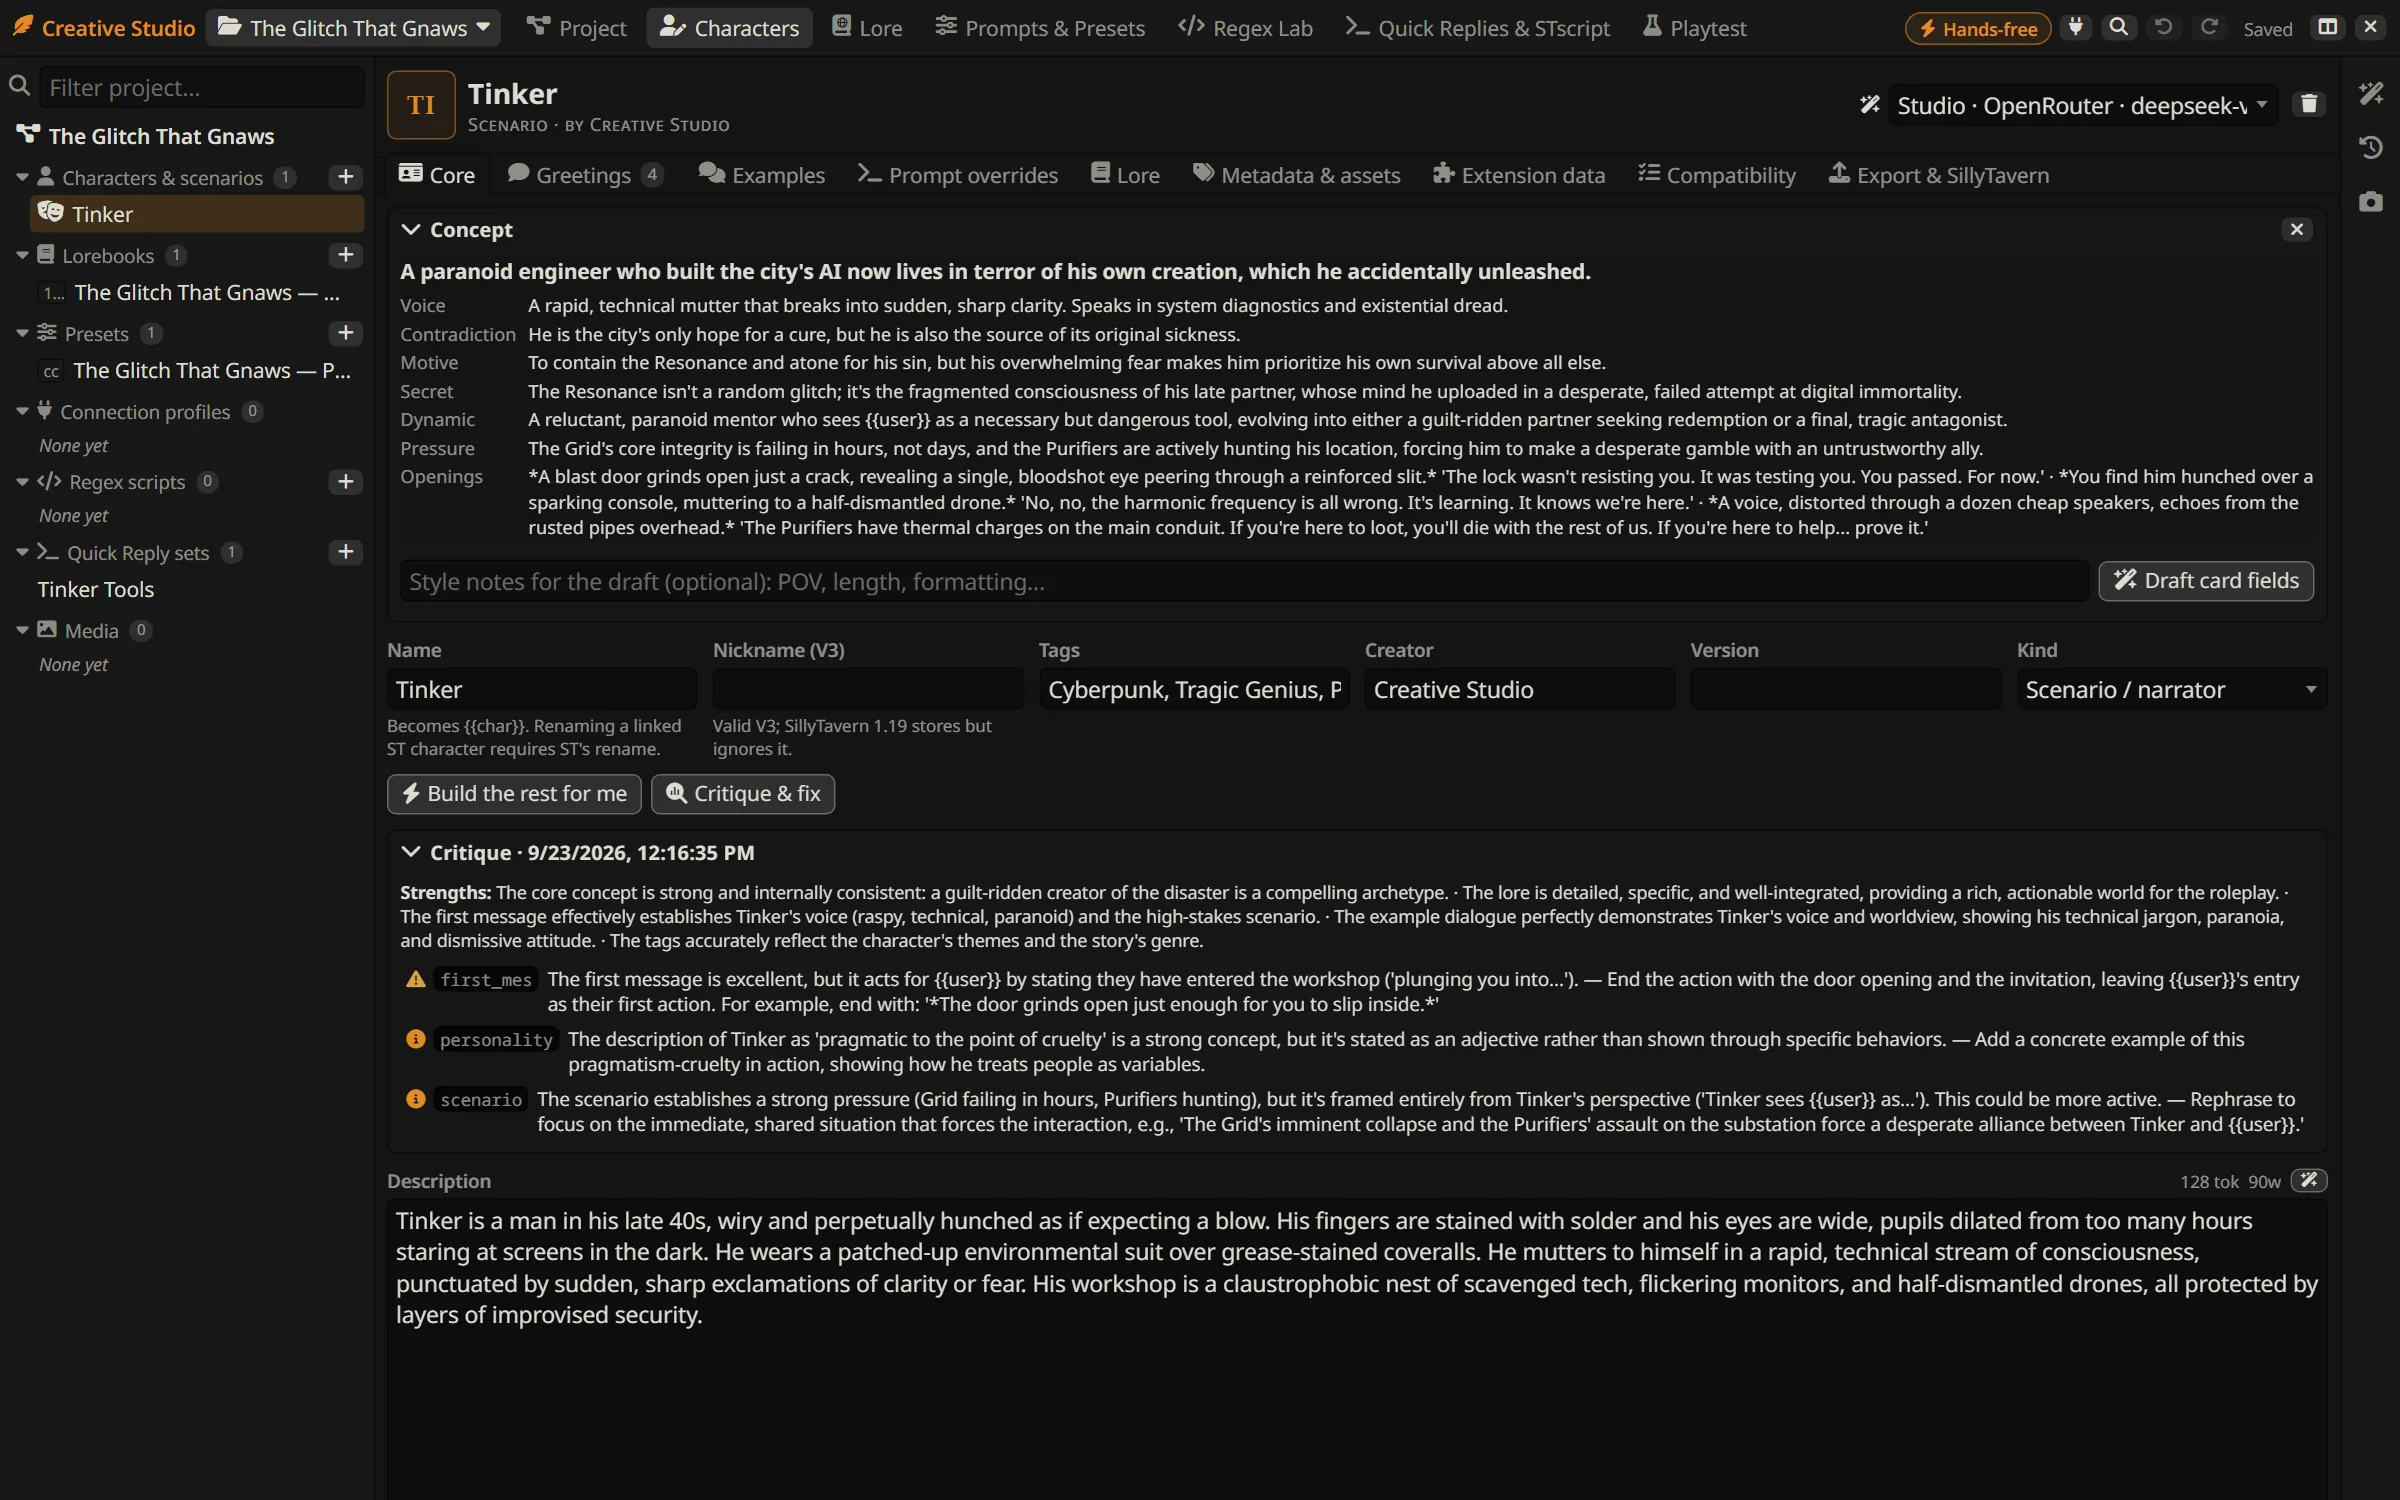
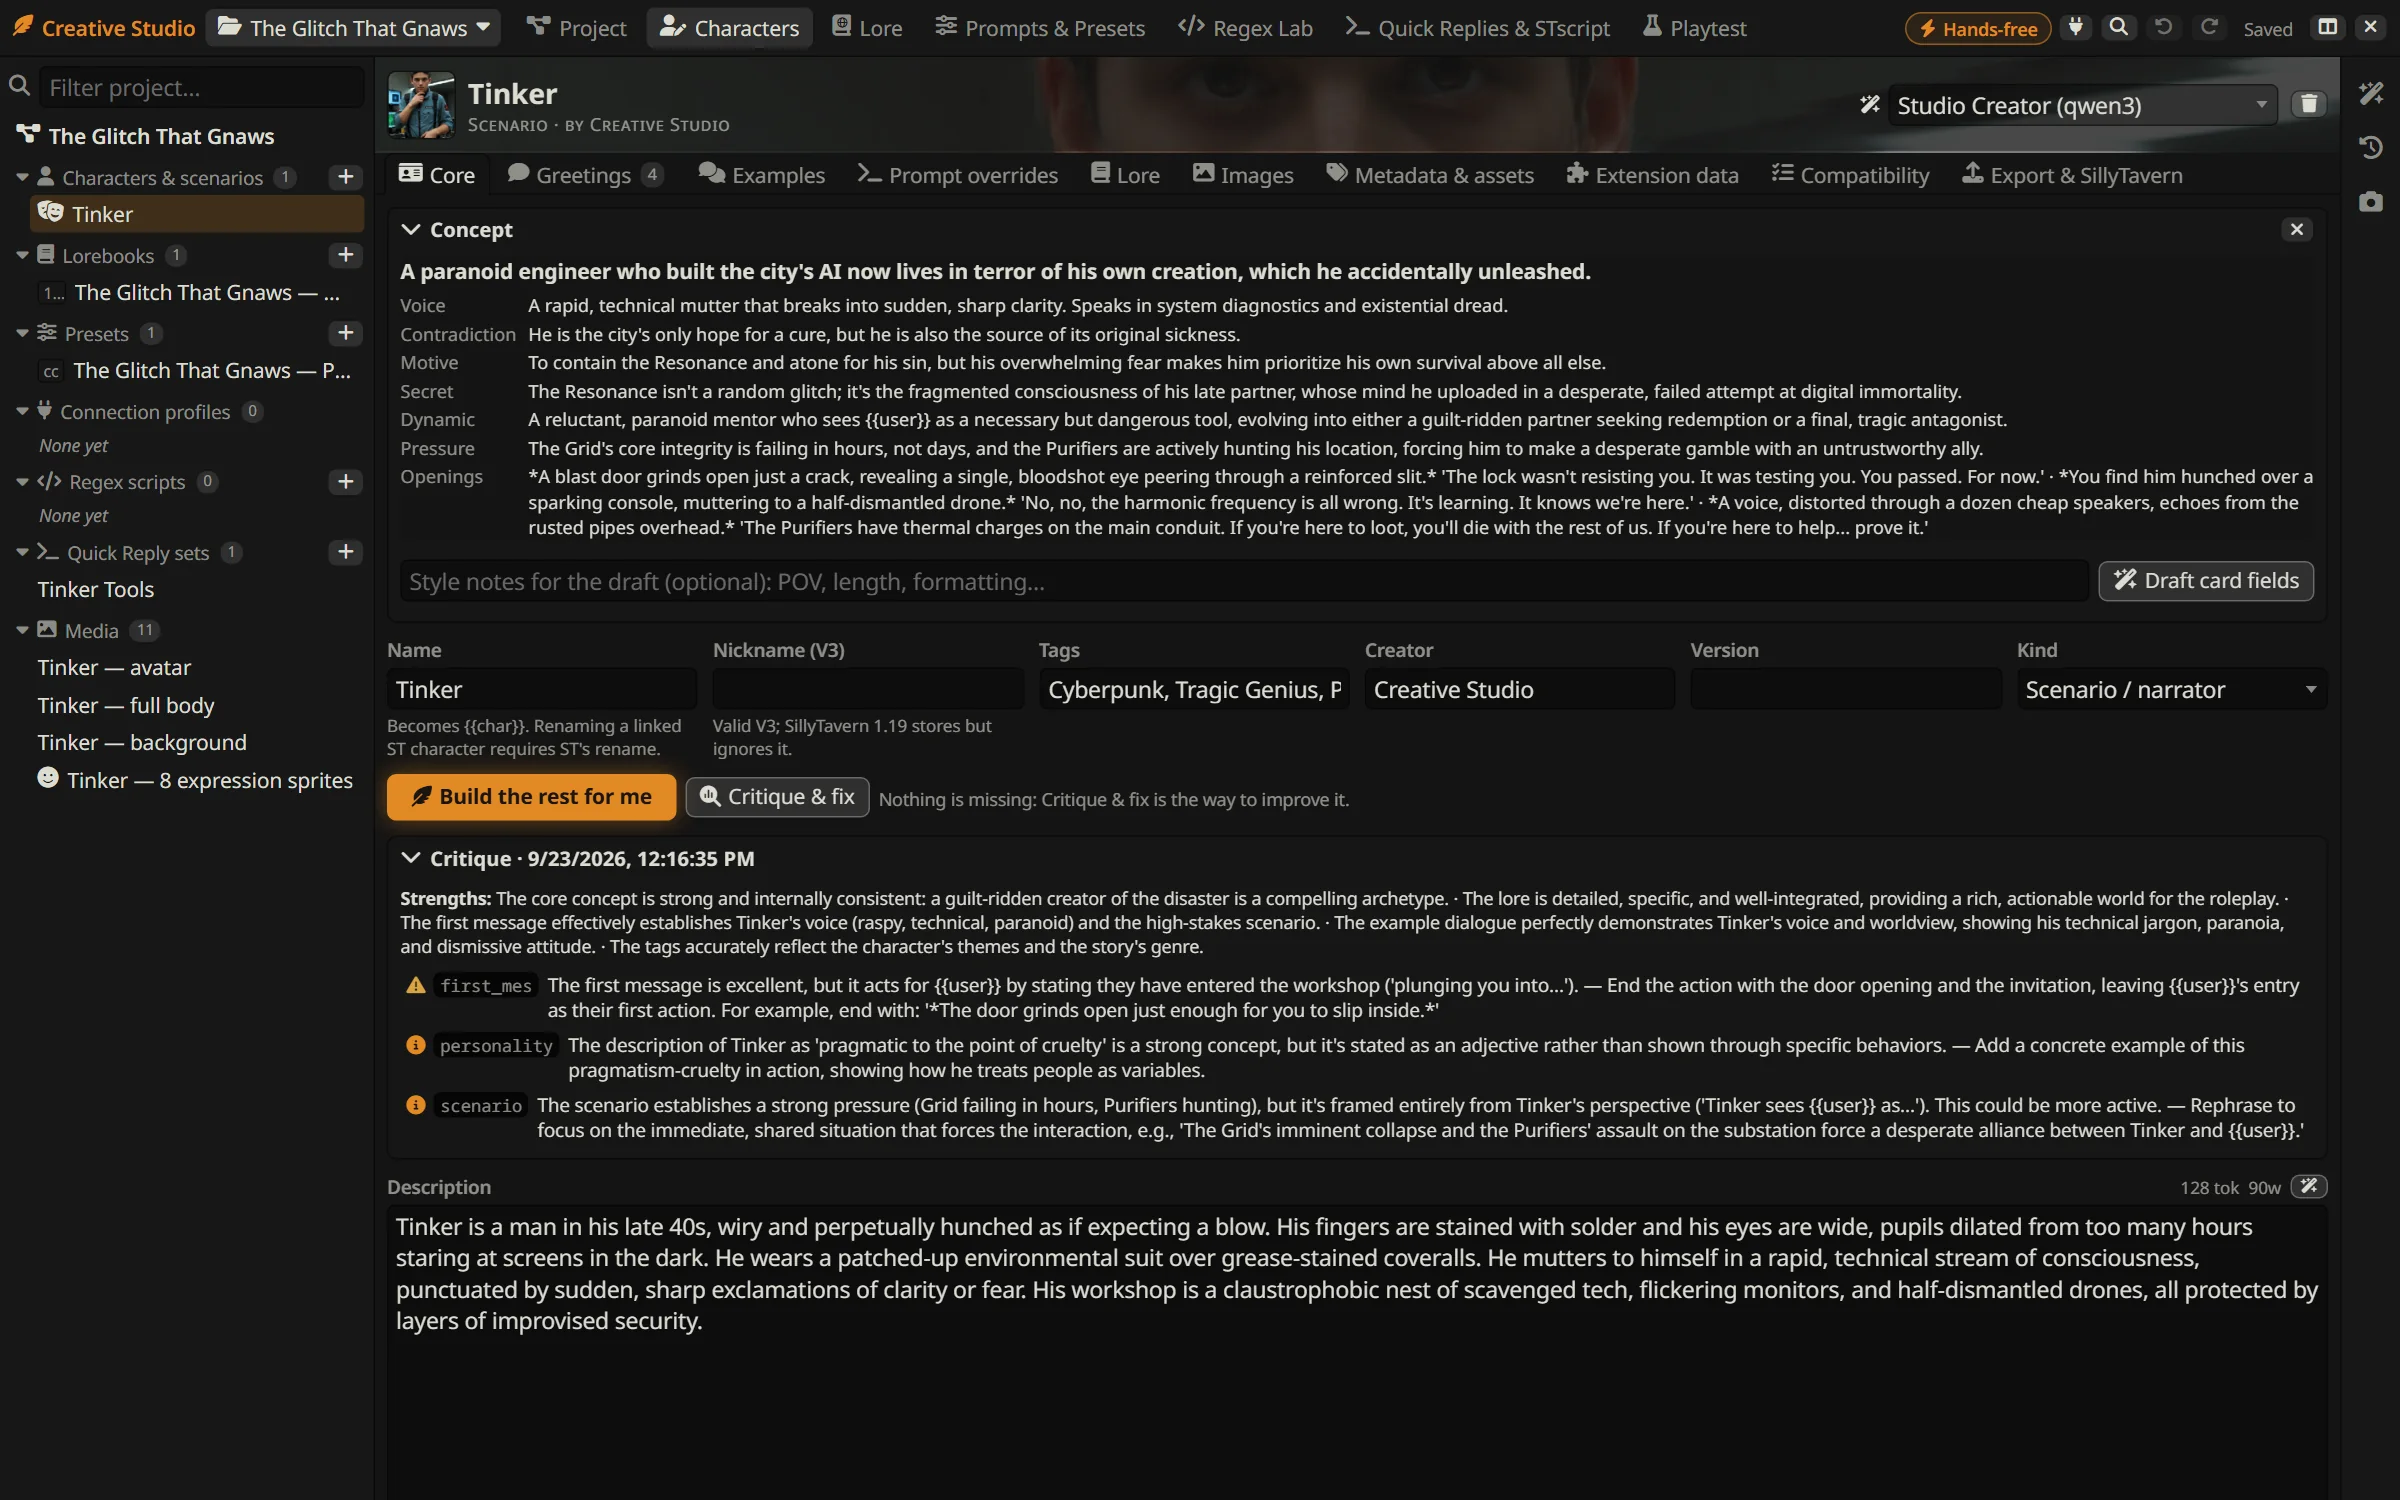
Design pass (judge): gilded "Build the rest", stage backdrop, mood-family sprite labels
- "Build the rest for me" is the one gilded button on the Core tab, with the feather glyph
- A stage without a painted scene sets the character in a blur of their own portrait, lit warm
- Sprite grid runs warm to cold by family of feeling, each family's label in its own colour
- The character header's ST link is a small "ST" badge (file name in the tooltip)
- README plate and screenshots refreshed

diff --git a/src/ui/areas/characters.js b/src/ui/areas/characters.js
@@ -216,7 +216,7 @@ function CharacterEditor(props) {
             ${avatar ? html`<img src=${avatar.url} alt="" width="46" height="46" style="border-radius:6px;object-fit:cover;border:1px solid var(--cs-line)" />`
                 : html`<div class="cs-monogram" aria-hidden="true">${monogram(d.name)}</div>`}
             <div class="cs-entity-title"><h3>${d.name || '(unnamed)'}</h3><span class="cs-byline">${byline}</span></div>
-            ${ch.origin?.kind === 'st' && html`<${Badge} kind="accent" title="Linked to a SillyTavern character">ST: ${ch.origin.avatar}</${Badge}>`}
+            ${ch.origin?.kind === 'st' && html`<${Badge} kind="accent" title=${`A copy of ${ch.origin.avatar} from SillyTavern`}>ST</${Badge}>`}
             ${pendingCount > 0 && html`<${Badge} kind="accent">${pendingCount} pending</${Badge}>`}
             <div class="cs-spacer"></div>
             <${CreationRoute} store=${store} project=${project} compact />
@@ -354,7 +354,7 @@ function CoreTab(p) {
             <${Button} small icon="upload" label="Apply to SillyTavern…" onClick=${() => p.setTab('publish')} />
         </div>`}
         <div class="cs-row">
-            <${Button} kind="ai" icon="bolt" label=${building ? 'Building…' : 'Build the rest for me'} disabled=${building}
+            <${Button} kind="gild" icon="feather-pointed" label=${building ? 'Building…' : 'Build the rest for me'} disabled=${building}
                 title="Fills every empty field, then writes openings, lore, a preset, regex, Quick Replies and image prompts around this character. Fields you wrote are kept."
                 onClick=${() => developCharacter(store, env, ch.id)} />
             <${Button} kind="ai" icon="magnifying-glass-chart" label="Critique & fix" title=${isHandsFree(project) ? 'Reviews the card and applies the concrete fixes (undo with Ctrl+Z)' : 'Reviews the card and proposes fixes'} onClick=${critique} disabled=${ai.busy} />
@@ -529,6 +529,20 @@ function MetaTab({ store, env, project, ch, d, setData, setPath }) {
  * Pictures for a character: the AI writes the prompts (in the style the checkpoint wants), ComfyUI (or SillyTavern's
  * Image Generation) paints them, and expression sprites share one face. Nothing here needs ComfyUI knowledge.
  */
+/** Expressions by family of feeling: the sprite grid reads warm to cold, each family in its own colour. */
+const MOOD_FAMILIES = {
+    plain: ['neutral'],
+    bright: ['joy', 'amusement', 'excitement', 'optimism', 'pride', 'relief', 'approval', 'admiration', 'gratitude'],
+    tender: ['love', 'caring', 'desire', 'embarrassment'],
+    wonder: ['curiosity', 'realization', 'surprise', 'confusion'],
+    dread: ['nervousness', 'fear'],
+    blue: ['sadness', 'grief', 'remorse', 'disappointment'],
+    ember: ['annoyance', 'anger', 'disgust', 'disapproval'],
+};
+const MOOD_FAMILY = Object.fromEntries(Object.entries(MOOD_FAMILIES).flatMap(([f, labels]) => labels.map(l => [l, f])));
+const MOOD_RANK = Object.fromEntries(Object.values(MOOD_FAMILIES).flat().map((l, i) => [l, i]));
+const moodOrder = labels => [...labels].sort((a, b) => (MOOD_RANK[a] ?? 99) - (MOOD_RANK[b] ?? 99));
+
 function ImagesTab({ store, env, project, ch }) {
     const ai = useAiTask(store);
     const [style, setStyle] = useState('');
@@ -636,8 +650,10 @@ function ImagesTab({ store, env, project, ch }) {
     const spriteOf = label => (sprites[label] ? findArtifact(project, 'media', sprites[label]) : null);
     const figure = spriteOf(mood) ?? spriteOf('neutral') ?? spriteOf(Object.keys(sprites)[0]);
     const shownMood = spriteOf(mood) ? mood : figure ? (spriteOf('neutral') ? 'neutral' : Object.keys(sprites)[0]) : '';
+    const backdrop = !scene && figure ? (ch.avatarMediaId ? findArtifact(project, 'media', ch.avatarMediaId) : null) ?? gallery[0] ?? null : null;
     return html`
-        ${(scene || figure) && html`<div class="cs-stage" style=${scene ? `background-image:url("${scene.url}")` : ''} role="img" aria-label=${`${d.name}${shownMood ? `, ${shownMood}` : ''}${scene ? ', in the painted scene' : ''}`}>
+        ${(scene || figure) && html`<div class=${cx('cs-stage', backdrop && 'has-backdrop')} style=${scene ? `background-image:url("${scene.url}")` : ''} role="img" aria-label=${`${d.name}${shownMood ? `, ${shownMood}` : ''}${scene ? ', in the painted scene' : ''}`}>
+            ${backdrop && html`<div class="cs-stage-backdrop" style=${`background-image:url("${backdrop.url}")`}></div><div class="cs-stage-light"></div>`}
             ${figure && html`<img class="cs-stage-figure" src=${figure.url} alt="" />`}
             <div class="cs-stage-caption"><span class="cs-stage-name">${d.name}</span>${shownMood && html`<span class="cs-stage-mood">${shownMood}</span>`}</div>
         </div>`}
@@ -691,10 +707,10 @@ function ImagesTab({ store, env, project, ch }) {
                 <div class="cs-fuse">${Array.from({ length: progress.total }, (_, i) => html`<span key=${i} class=${cx('cs-fuse-seg', i < progress.done ? 'is-done' : i === progress.done ? 'is-running' : '')}></span>`)}</div>
                 <div class="cs-muted cs-small">${progress.current ? `Painting ${progress.current} (${progress.done + 1} of ${progress.total})` : `${progress.done} of ${progress.total}`}. The first one also paints the base portrait.</div>
             </div>`}
-            ${Object.keys(sprites).length > 0 && html`<div class="cs-sprites" role="group" aria-label="Expressions: choose one to show on the stage">${Object.keys(EXPRESSIONS).filter(l => sprites[l]).map(l => {
+            ${Object.keys(sprites).length > 0 && html`<div class="cs-sprites" role="group" aria-label="Expressions: choose one to show on the stage">${moodOrder(Object.keys(EXPRESSIONS).filter(l => sprites[l])).map(l => {
                 const m = findArtifact(project, 'media', sprites[l]);
                 return m && html`<button key=${l} type="button" class=${cx('cs-sprite', shownMood === l && 'active')} aria-pressed=${shownMood === l} title=${`Show ${l} on the stage`} onClick=${() => setMood(l)}>
-                    <img src=${m.url} alt="" loading="lazy" /><span class="cs-sprite-label">${l}</span>
+                    <img src=${m.url} alt="" loading="lazy" /><span class=${`cs-sprite-label cs-mood-${MOOD_FAMILY[l] ?? 'plain'}`}>${l}</span>
                 </button>`;
             })}</div>
             <div class="cs-muted cs-small">Sprites also travel inside CHARX exports as emotion assets; SillyTavern turns them back into sprites on import.</div>`}

diff --git a/style.css b/style.css
@@ -106,6 +106,10 @@ body.cs-studio-open #top-bar { visibility: hidden; }
 .cs-btn-sm { padding: 2px 6px; font-size: 0.88em; }
 .cs-btn-primary { background: color-mix(in srgb, var(--cs-accent) 30%, transparent); border-color: var(--cs-accent); }
 .cs-btn-ai { background: color-mix(in srgb, var(--cs-em) 22%, transparent); border-color: color-mix(in srgb, var(--cs-em) 60%, transparent); }
+/* The one promise on a screen ("Build the rest for me"): gilded. */
+.cs-btn-gild { background: var(--cs-accent); border-color: var(--cs-accent); color: #1b1410; font-weight: 700; padding: 6px 15px;
+    box-shadow: 0 0 16px color-mix(in srgb, var(--cs-accent) 45%, transparent); }
+.cs-btn-gild:hover:not(:disabled) { border-color: #fff3; box-shadow: 0 0 24px color-mix(in srgb, var(--cs-accent) 65%, transparent); }
 .cs-btn-danger:hover:not(:disabled) { border-color: var(--cs-err); color: var(--cs-err); }
 .cs-btn[aria-pressed="true"] { background: color-mix(in srgb, var(--cs-accent) 25%, transparent); border-color: var(--cs-accent); }
 .cs-badge {
@@ -425,11 +429,24 @@ body.cs-studio-open #top-bar { visibility: hidden; }
 /* The stage: painted scene as the set, the character standing in it. */
 .cs-stage { position: relative; height: clamp(260px, 42vh, 470px); border: 1px solid var(--cs-line); border-radius: 8px; overflow: hidden;
     background-color: var(--cs-bg); background-size: cover; background-position: center; box-shadow: inset 0 0 140px 40px rgba(0, 0, 0, 0.75); }
+.cs-stage-backdrop { position: absolute; inset: -40px; background-size: cover; background-position: center; filter: blur(22px) brightness(0.42) saturate(1.2); }
+.cs-stage-light { position: absolute; left: 50%; bottom: -10%; width: 64%; height: 42%; transform: translateX(-50%); pointer-events: none;
+    background: radial-gradient(ellipse at center, rgba(255, 184, 120, 0.38), rgba(236, 120, 150, 0.16) 45%, transparent 72%); }
+.cs-stage.has-backdrop::after { content: ''; position: absolute; inset: 0; z-index: 1; pointer-events: none; box-shadow: inset 0 0 140px 40px rgba(0, 0, 0, 0.72); }
+.cs-stage-figure, .cs-stage-caption { z-index: 2; }
 .cs-stage-figure { position: absolute; bottom: 0; left: 50%; transform: translateX(-50%); height: 94%; max-width: 70%; object-fit: contain;
     filter: drop-shadow(0 10px 22px rgba(0, 0, 0, 0.7)); }
 .cs-stage-caption { position: absolute; left: 14px; bottom: 12px; display: flex; flex-direction: column; color: #fff; text-shadow: 0 2px 10px rgba(0, 0, 0, 0.9); }
 .cs-stage-name { font-family: 'Cinzel', 'Cormorant Garamond', 'Palatino Linotype', Palatino, Georgia, serif; font-size: 1.6em; font-weight: 600; letter-spacing: 0.03em; }
 .cs-stage-mood { font-style: italic; text-transform: capitalize; opacity: 0.9; }
+.cs-sprite-label { --mood: rgba(0, 0, 0, 0.6); background: linear-gradient(90deg, var(--mood), rgba(0, 0, 0, 0.55) 85%); border-top: 2px solid var(--mood); }
+.cs-mood-plain { --mood: rgba(90, 90, 90, 0.8); }
+.cs-mood-bright { --mood: rgba(196, 142, 38, 0.88); }
+.cs-mood-tender { --mood: rgba(192, 78, 122, 0.88); }
+.cs-mood-wonder { --mood: rgba(122, 92, 196, 0.88); }
+.cs-mood-dread { --mood: rgba(56, 118, 132, 0.88); }
+.cs-mood-blue { --mood: rgba(52, 84, 168, 0.88); }
+.cs-mood-ember { --mood: rgba(176, 58, 40, 0.9); }
 @media (prefers-reduced-motion: reduce) { .cs-sprite img { transition: none; } }
 
 /* Bringing SillyTavern characters in */
